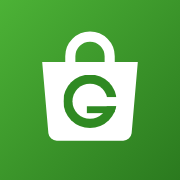
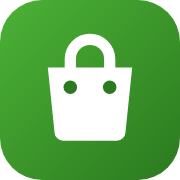
GMarket 1.0.1: botones de la tarjeta sin cortar el texto; web con menú ☰
- Tarjetas de producto: si «Añadir al carrito» y «Guardar» no caben en una fila,
  «Guardar» pasa debajo y el texto ya no se corta (móvil y tarjetas estrechas).
- Web: en tableta y móvil los enlaces pasan a un menú ☰; el eslogan ya no choca con el menú.
- Web: el enlace de Privacidad, al final del pie (como en Easy2Cuba).
- Web: vuelve el logo original de la bolsa mientras se elige el nuevo.

diff --git a/docs/index.html b/docs/index.html
@@ -45,22 +45,37 @@ a:focus-visible, .btn:focus-visible { outline: 3px solid var(--yellow); outline-
 /* Barra superior */
 .top { background: var(--deep); color: var(--white); position: sticky; top: 0; z-index: 10; }
 .top .wrap { display: flex; align-items: center; justify-content: space-between; gap: 16px; padding-block: 12px; }
-.brand { display: flex; align-items: center; gap: 12px; color: var(--white); text-decoration: none; font-weight: 800; font-size: 19px; letter-spacing: -.01em; min-width: 0; }
+.brand { display: flex; flex: 0 1 auto; align-items: center; gap: 12px; color: var(--white); text-decoration: none; font-weight: 800; font-size: 19px; letter-spacing: -.01em; min-width: 0; }
 .brand img { width: 38px; height: 38px; flex: none; }
 .brand-txt { display: flex; flex-direction: column; line-height: 1.15; min-width: 0; }
-.brand-tag { font-weight: 500; font-size: 12.5px; color: #a9bcd8; white-space: nowrap; letter-spacing: 0; }
+.brand-tag { font-weight: 500; font-size: 12.5px; color: #a9bcd8; white-space: nowrap; overflow: hidden; text-overflow: ellipsis; letter-spacing: 0; }
 @media (max-width: 640px) { .brand-tag { font-size: 11.5px; white-space: normal; line-height: 1.3; } }
-.nav { display: flex; align-items: center; gap: 22px; }
+.nav { display: flex; flex: none; align-items: center; gap: 22px; }
 .nav a { color: #d3deee; text-decoration: none; font-weight: 600; font-size: 15px; }
 .nav a:hover { color: var(--white); }
 .nav a.btn-buy, .nav a.btn-buy:hover { color: var(--deep); }
-@media (max-width: 1000px) { .nav .hide-sm { display: none; } }
-@media (max-width: 640px) { .nav .nav-dl { display: none; } .top .wrap { padding-block: 10px; } }
+.nav-links { display: flex; align-items: center; gap: 22px; }
+.nav-links .only-menu { display: none; }
+.menu-btn { display: none; place-items: center; flex: none; width: 42px; height: 42px; border: 0; border-radius: 10px; background: rgba(255,255,255,.1); color: var(--white); cursor: pointer; }
+.menu-btn:hover { background: rgba(255,255,255,.18); }
+.menu-btn svg { width: 22px; height: 22px; }
+.menu-btn .i-close, .top.open .menu-btn .i-open { display: none; }
+.top.open .menu-btn .i-close { display: block; }
+.menu-btn:focus-visible { outline: 3px solid var(--yellow); outline-offset: 2px; }
+/* Tableta y móvil: los enlaces pasan al menú ☰ */
+@media (max-width: 1100px) {
+	.menu-btn { display: grid; }
+	.nav-links { display: none; position: absolute; top: 100%; left: 0; right: 0; flex-direction: column; align-items: stretch; gap: 0; padding: 6px max(20px, calc((100% - 1120px) / 2)) 14px; background: var(--deep); border-top: 1px solid rgba(255,255,255,.1); box-shadow: 0 18px 30px rgba(0,0,0,.3); }
+	.top.open .nav-links { display: flex; }
+	.nav-links a { padding: 13px 4px; font-size: 16px; border-bottom: 1px solid rgba(255,255,255,.08); }
+	.nav-links a:last-child { border-bottom: 0; }
+}
+@media (max-width: 640px) { .nav .nav-dl { display: none; } .nav-links .only-menu { display: block; color: var(--yellow); } .top .wrap { padding-block: 10px; } }
 .lang { display: flex; gap: 4px; background: rgba(255,255,255,.1); border-radius: 999px; padding: 4px; flex: none; }
 .lang button { border: 0; background: transparent; color: #d3deee; font: 700 14px var(--font); padding: 6px 12px; border-radius: 999px; cursor: pointer; }
 .lang button[aria-pressed="true"] { background: var(--white); color: var(--deep); }
 .lang button:focus-visible { outline: 3px solid var(--yellow); outline-offset: 2px; }
-@media (max-width: 420px) { .nav { gap: 10px; } .lang button { padding: 6px 10px; font-size: 13px; } .brand { gap: 10px; } .brand img { width: 34px; height: 34px; } }
+@media (max-width: 420px) { .nav { gap: 8px; } .menu-btn { width: 38px; height: 38px; } .lang button { padding: 6px 10px; font-size: 13px; } .brand { gap: 10px; } .brand img { width: 34px; height: 34px; } }
 
 /* Botones */
 .btn { display: inline-flex; align-items: center; gap: 10px; padding: 14px 22px; border-radius: 999px; font-weight: 700; font-size: 16px; text-decoration: none; line-height: 1.2; }
@@ -156,13 +171,17 @@ footer a { color: var(--white); }
 	<div class="wrap">
 		<a class="brand" href="#"><img src="img/logo.svg" alt=""><span class="brand-txt"><span>GMarket</span><span class="brand-tag" data-en="WordPress theme for WooCommerce stores">Tema de WordPress para tiendas WooCommerce</span></span></a>
 		<nav class="nav" aria-label="Principal" data-en-aria="Main">
-			<a class="hide-sm" href="#funciones" data-en="Features">Funciones</a>
-			<a class="hide-sm" href="#personalizar" data-en="Customize">Personalizar</a>
-			<a class="hide-sm" href="#instalar" data-en="Install">Instalación</a>
-			<a class="hide-sm" href="demo/">Demo</a>
-			<a class="hide-sm" href="https://github.com/wpdesigndev/gmarket">GitHub</a>
+			<div class="nav-links" id="nav-links">
+				<a href="#funciones" data-en="Features">Funciones</a>
+				<a href="#personalizar" data-en="Customize">Personalizar</a>
+				<a href="#instalar" data-en="Install">Instalación</a>
+				<a href="demo/">Demo</a>
+				<a href="https://github.com/wpdesigndev/gmarket">GitHub</a>
+				<a class="only-menu" href="https://github.com/wpdesigndev/gmarket/releases/latest/download/gmarket.zip" data-en="Download free">Descargar gratis</a>
+			</div>
 			<a class="btn btn-buy btn-sm nav-dl" href="https://github.com/wpdesigndev/gmarket/releases/latest/download/gmarket.zip" data-en="Download">Descargar</a>
 			<div class="lang" role="group" aria-label="Idioma / Language"><button type="button" id="b-es" aria-pressed="true" lang="es">ES</button><button type="button" id="b-en" aria-pressed="false" lang="en">EN</button></div>
+			<button type="button" class="menu-btn" aria-expanded="false" aria-controls="nav-links" aria-label="Menú" data-en-aria="Menu"><svg class="i-open" viewBox="0 0 24 24" fill="none" stroke="currentColor" stroke-width="2.2" stroke-linecap="round" aria-hidden="true"><path d="M4 7h16M4 12h16M4 17h16"></path></svg><svg class="i-close" viewBox="0 0 24 24" fill="none" stroke="currentColor" stroke-width="2.2" stroke-linecap="round" aria-hidden="true"><path d="M6 6l12 12M18 6L6 18"></path></svg></button>
 		</nav>
 	</div>
 </header>
@@ -323,7 +342,7 @@ footer a { color: var(--white); }
 	<div class="wrap">
 		<div class="by"><span data-en="Developed by">Desarrollado por</span> <img src="img/gmeti-white.png" alt=""><a href="https://gmeti.com" target="_blank" rel="noopener noreferrer"><b>GMETI</b></a></div>
 		<div><span data-en="Support:">Soporte:</span> <a href="mailto:gmarket@gmeti.com">gmarket@gmeti.com</a></div>
-		<div><a href="privacidad/" data-en="Privacy">Privacidad</a> · <span data-en="License">Licencia</span> GPLv2 · <a href="https://github.com/wpdesigndev/gmarket">GitHub</a></div>
+		<div><span data-en="License">Licencia</span> GPLv2 · <a href="https://github.com/wpdesigndev/gmarket">GitHub</a> · <a href="privacidad/" data-en="Privacy">Privacidad</a></div>
 	</div>
 </footer>
 
@@ -338,6 +357,18 @@ footer a { color: var(--white); }
 		var reduce = window.matchMedia && window.matchMedia('(prefers-reduced-motion: reduce)').matches;
 		window.scrollTo({ top: 0, behavior: reduce ? 'auto' : 'smooth' });
 	});
+})();
+</script>
+<script>
+(function () {
+	// Menú ☰ en tableta y móvil
+	var top = document.querySelector('.top'), btn = top.querySelector('.menu-btn');
+	function close() { top.classList.remove('open'); btn.setAttribute('aria-expanded', 'false'); }
+	btn.addEventListener('click', function () { btn.setAttribute('aria-expanded', String(top.classList.toggle('open'))); });
+	top.querySelectorAll('.nav-links a').forEach(function (a) { a.addEventListener('click', close); });
+	document.addEventListener('click', function (e) { if (!top.contains(e.target)) close(); });
+	document.addEventListener('keydown', function (e) { if (e.key === 'Escape') close(); });
+	window.addEventListener('resize', function () { if (getComputedStyle(btn).display === 'none') close(); });
 })();
 </script>
 <script>

diff --git a/assets/css/main.css b/assets/css/main.css
@@ -1002,3 +1002,13 @@ h1 { font-size: clamp(1.5rem, 2.6vw, 2rem); }
 .gmk-comments textarea, .gmk-comments input[type="text"], .gmk-comments input[type="email"], .gmk-comments input[type="url"] { width: 100%; padding: 10px 12px; border: 1px solid var(--gmk-line); border-radius: 8px; font: inherit; }
 .gmk-comments .submit { padding: 10px 20px; border: 0; border-radius: 999px; background: var(--gmk-yellow); color: var(--gmk-ink); font: inherit; font-weight: 700; cursor: pointer; }
 .gmk-comments .submit:hover { background: var(--gmk-yellow-dark); }
+
+/* ==========================================================================
+   Revisión 8 (1.0.1): botones de la tarjeta sin cortar el texto
+   Si «Añadir al carrito» y «Guardar» no caben en una fila, «Guardar» pasa debajo.
+   ========================================================================== */
+.gmk-card__actions { flex-wrap: wrap; }
+.woocommerce ul.products li.product .gmk-card__actions .button { flex: 1 0 auto; overflow: visible; text-overflow: clip; white-space: nowrap; }
+.woocommerce ul.products li.product .gmk-card__actions .yith-add-to-wishlist-button-block,
+.woocommerce ul.products li.product .gmk-card__actions .yith-wcwl-add-to-wishlist { flex: 1 0 auto; }
+.woocommerce ul.products li.product .gmk-card__actions .yith-wcwl-add-to-wishlist-button__label { overflow: visible; }

diff --git a/docs/demo/gmarket.css b/docs/demo/gmarket.css
@@ -1002,3 +1002,13 @@ h1 { font-size: clamp(1.5rem, 2.6vw, 2rem); }
 .gmk-comments textarea, .gmk-comments input[type="text"], .gmk-comments input[type="email"], .gmk-comments input[type="url"] { width: 100%; padding: 10px 12px; border: 1px solid var(--gmk-line); border-radius: 8px; font: inherit; }
 .gmk-comments .submit { padding: 10px 20px; border: 0; border-radius: 999px; background: var(--gmk-yellow); color: var(--gmk-ink); font: inherit; font-weight: 700; cursor: pointer; }
 .gmk-comments .submit:hover { background: var(--gmk-yellow-dark); }
+
+/* ==========================================================================
+   Revisión 8 (1.0.1): botones de la tarjeta sin cortar el texto
+   Si «Añadir al carrito» y «Guardar» no caben en una fila, «Guardar» pasa debajo.
+   ========================================================================== */
+.gmk-card__actions { flex-wrap: wrap; }
+.woocommerce ul.products li.product .gmk-card__actions .button { flex: 1 0 auto; overflow: visible; text-overflow: clip; white-space: nowrap; }
+.woocommerce ul.products li.product .gmk-card__actions .yith-add-to-wishlist-button-block,
+.woocommerce ul.products li.product .gmk-card__actions .yith-wcwl-add-to-wishlist { flex: 1 0 auto; }
+.woocommerce ul.products li.product .gmk-card__actions .yith-wcwl-add-to-wishlist-button__label { overflow: visible; }

diff --git a/style.css b/style.css
@@ -4,7 +4,7 @@ Theme URI: https://wpdesigndev.github.io/gmarket/
 Author: GMETI
 Author URI: https://gmeti.com
 Description: Tema de tienda online estilo marketplace para WooCommerce. Incluye cabecera con buscador por categorías y sugerencias en vivo, menú lateral de categorías, filtros de tienda (precio, atributos, valoración, disponibilidad y ofertas) con recuentos reales, tarjetas de producto uniformes, ficha de producto con bloque de ventajas, bloques de portada mediante shortcodes, panel para editar todos los textos sin tocar código, colores personalizables y compatibilidad con Elementor Header & Footer Builder, TranslatePress y YITH Wishlist.
-Version: 1.0.0
+Version: 1.0.1
 Requires at least: 6.4
 Tested up to: 7.1
 Requires PHP: 7.4

diff --git a/functions.php b/functions.php
@@ -9,7 +9,7 @@ if ( ! defined( 'ABSPATH' ) ) {
 	exit;
 }
 
-define( 'GMK_VERSION', '1.0.0' );
+define( 'GMK_VERSION', '1.0.1' );
 define( 'GMK_DIR', get_template_directory() );
 define( 'GMK_URI', get_template_directory_uri() );
 
